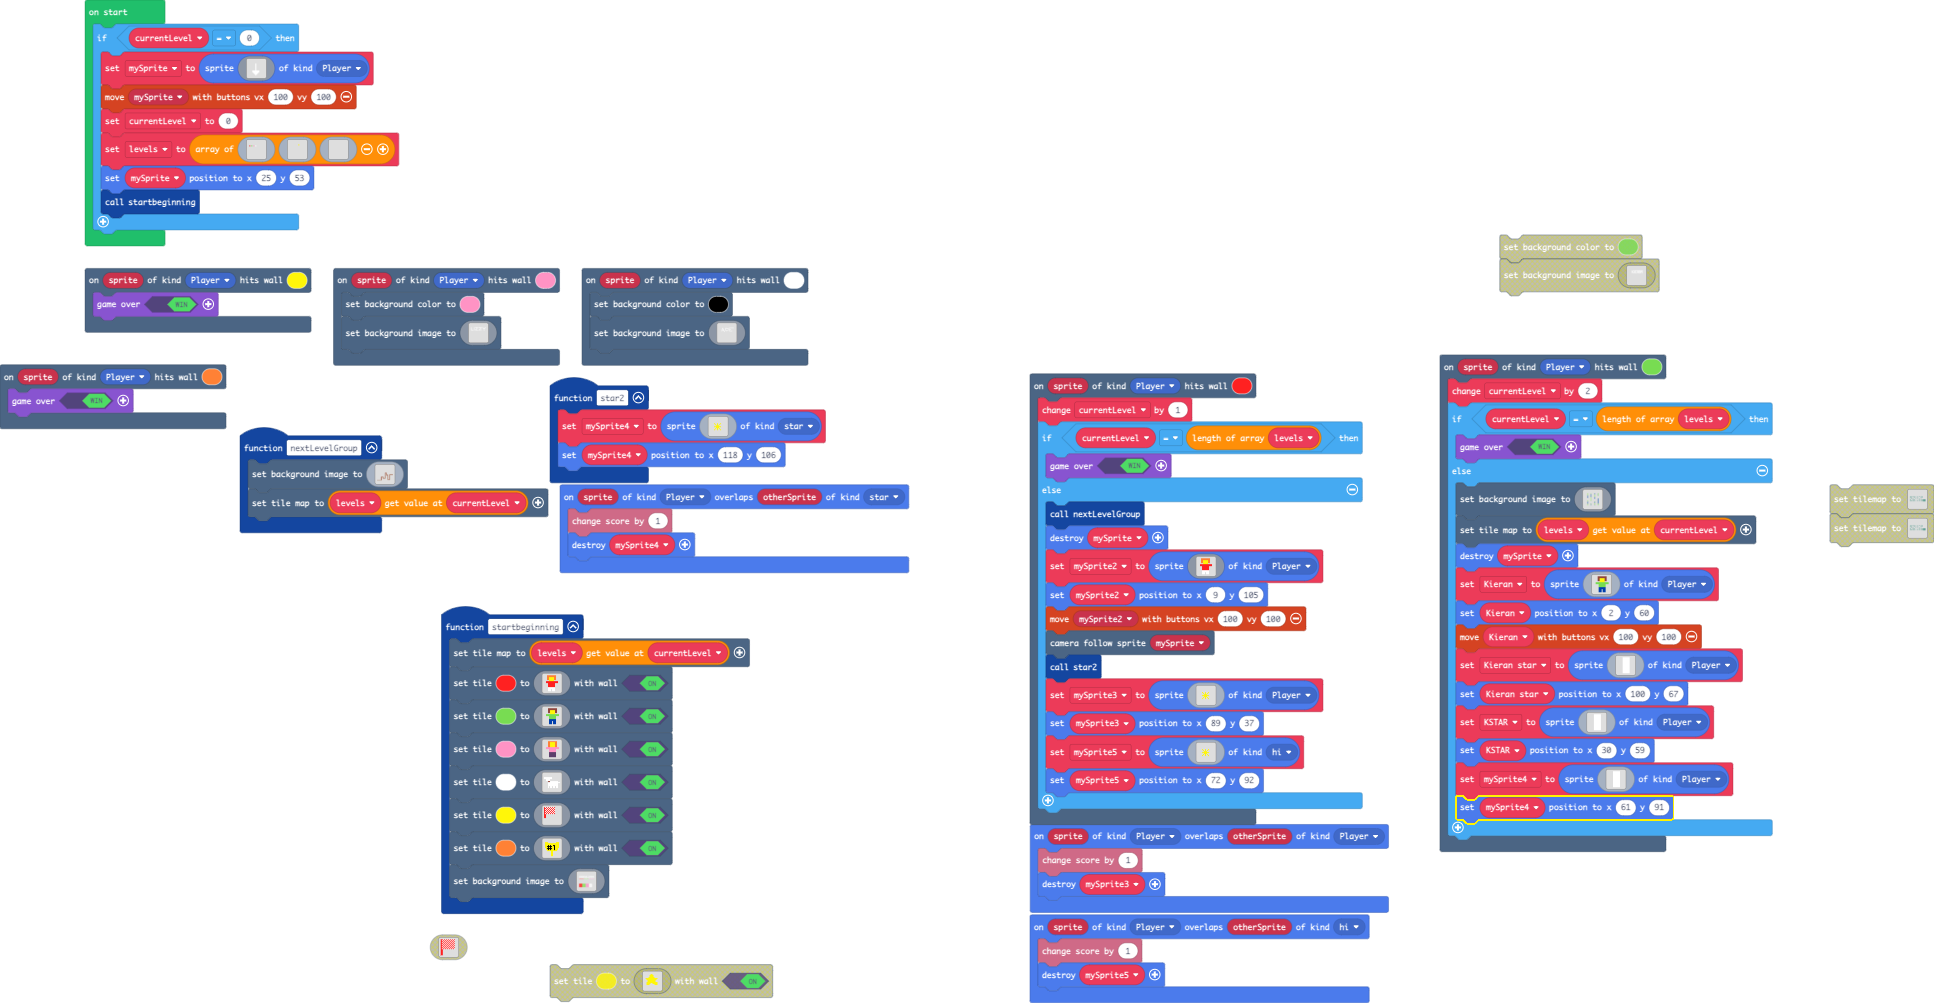
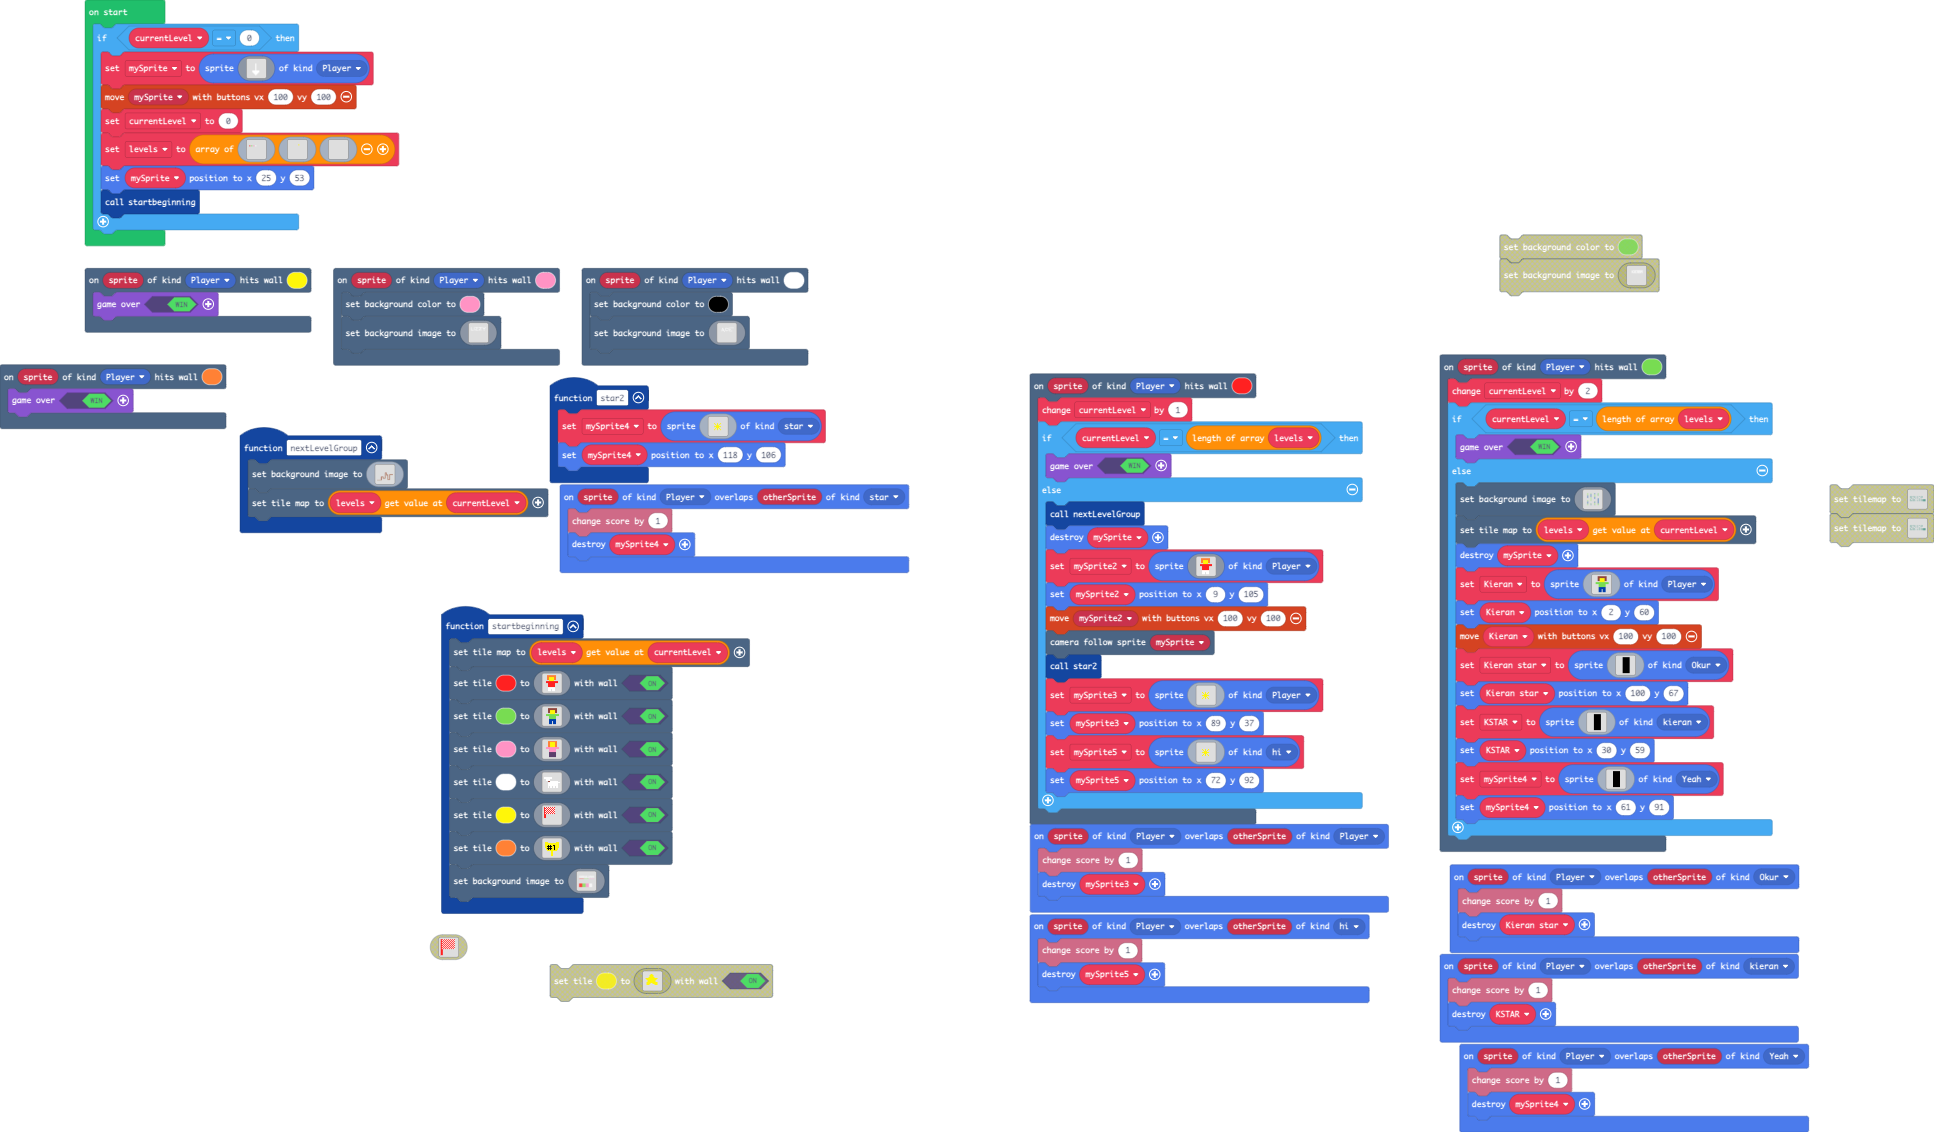
Update main.blocks, main.ts

diff --git a/main.ts b/main.ts
@@ -2,6 +2,8 @@ namespace SpriteKind {
     export const star = SpriteKind.create()
     export const hi = SpriteKind.create()
     export const Okur = SpriteKind.create()
+    export const kieran = SpriteKind.create()
+    export const Yeah = SpriteKind.create()
 }
 function nextLevelGroup () {
     scene.setBackgroundImage(img`
@@ -278,61 +280,61 @@ scene.onHitTile(SpriteKind.Player, 7, function (sprite) {
         Kieran.setPosition(2, 60)
         controller.moveSprite(Kieran, 100, 100)
         Kieran_star = sprites.create(img`
-            . . . . . 1 1 1 1 1 1 1 . . . . 
-            . . . . . 1 1 1 1 1 1 1 . . . . 
-            . . . . . 1 1 1 1 1 1 1 . . . . 
-            . . . . . 1 1 1 1 1 1 1 . . . . 
-            . . . . . 1 1 1 1 1 1 1 . . . . 
-            . . . . . 1 1 1 1 1 1 1 . . . . 
-            . . . . . 1 1 1 1 1 1 1 . . . . 
-            . . . . . 1 1 1 1 1 1 1 . . . . 
-            . . . . . 1 1 1 1 1 1 1 . . . . 
-            . . . . . 1 1 1 1 1 1 1 . . . . 
-            . . . . . 1 1 1 1 1 1 1 . . . . 
-            . . . . . 1 1 1 1 1 1 1 . . . . 
-            . . . . . 1 1 1 1 1 1 1 . . . . 
-            . . . . . 1 1 1 1 1 1 1 . . . . 
-            . . . . . 1 1 1 1 1 1 1 . . . . 
-            . . . . . 1 1 1 1 1 1 1 . . . . 
-            `, SpriteKind.Player)
+            . . . . . f f f f f f f . . . . 
+            . . . . . f f f f f f f . . . . 
+            . . . . . f f f f f f f . . . . 
+            . . . . . f f f f f f f . . . . 
+            . . . . . f f f f f f f . . . . 
+            . . . . . f f f f f f f . . . . 
+            . . . . . f f f f f f f . . . . 
+            . . . . . f f f f f f f . . . . 
+            . . . . . f f f f f f f . . . . 
+            . . . . . f f f f f f f . . . . 
+            . . . . . f f f f f f f . . . . 
+            . . . . . f f f f f f f . . . . 
+            . . . . . f f f f f f f . . . . 
+            . . . . . f f f f f f f . . . . 
+            . . . . . f f f f f f f . . . . 
+            . . . . . f f f f f f f . . . . 
+            `, SpriteKind.Okur)
         Kieran_star.setPosition(100, 67)
         KSTAR = sprites.create(img`
-            . . . . . 1 1 1 1 1 1 1 . . . . 
-            . . . . . 1 1 1 1 1 1 1 . . . . 
-            . . . . . 1 1 1 1 1 1 1 . . . . 
-            . . . . . 1 1 1 1 1 1 1 . . . . 
-            . . . . . 1 1 1 1 1 1 1 . . . . 
-            . . . . . 1 1 1 1 1 1 1 . . . . 
-            . . . . . 1 1 1 1 1 1 1 . . . . 
-            . . . . . 1 1 1 1 1 1 1 . . . . 
-            . . . . . 1 1 1 1 1 1 1 . . . . 
-            . . . . . 1 1 1 1 1 1 1 . . . . 
-            . . . . . 1 1 1 1 1 1 1 . . . . 
-            . . . . . 1 1 1 1 1 1 1 . . . . 
-            . . . . . 1 1 1 1 1 1 1 . . . . 
-            . . . . . 1 1 1 1 1 1 1 . . . . 
-            . . . . . 1 1 1 1 1 1 1 . . . . 
-            . . . . . 1 1 1 1 1 1 1 . . . . 
-            `, SpriteKind.Player)
+            . . . . . f f f f f f f . . . . 
+            . . . . . f f f f f f f . . . . 
+            . . . . . f f f f f f f . . . . 
+            . . . . . f f f f f f f . . . . 
+            . . . . . f f f f f f f . . . . 
+            . . . . . f f f f f f f . . . . 
+            . . . . . f f f f f f f . . . . 
+            . . . . . f f f f f f f . . . . 
+            . . . . . f f f f f f f . . . . 
+            . . . . . f f f f f f f . . . . 
+            . . . . . f f f f f f f . . . . 
+            . . . . . f f f f f f f . . . . 
+            . . . . . f f f f f f f . . . . 
+            . . . . . f f f f f f f . . . . 
+            . . . . . f f f f f f f . . . . 
+            . . . . . f f f f f f f . . . . 
+            `, SpriteKind.kieran)
         KSTAR.setPosition(30, 59)
         mySprite4 = sprites.create(img`
-            . . . . . 1 1 1 1 1 1 1 . . . . 
-            . . . . . 1 1 1 1 1 1 1 . . . . 
-            . . . . . 1 1 1 1 1 1 1 . . . . 
-            . . . . . 1 1 1 1 1 1 1 . . . . 
-            . . . . . 1 1 1 1 1 1 1 . . . . 
-            . . . . . 1 1 1 1 1 1 1 . . . . 
-            . . . . . 1 1 1 1 1 1 1 . . . . 
-            . . . . . 1 1 1 1 1 1 1 . . . . 
-            . . . . . 1 1 1 1 1 1 1 . . . . 
-            . . . . . 1 1 1 1 1 1 1 . . . . 
-            . . . . . 1 1 1 1 1 1 1 . . . . 
-            . . . . . 1 1 1 1 1 1 1 . . . . 
-            . . . . . 1 1 1 1 1 1 1 . . . . 
-            . . . . . 1 1 1 1 1 1 1 . . . . 
-            . . . . . 1 1 1 1 1 1 1 . . . . 
-            . . . . . 1 1 1 1 1 1 1 . . . . 
-            `, SpriteKind.Player)
+            . . . . . f f f f f f f . . . . 
+            . . . . . f f f f f f f . . . . 
+            . . . . . f f f f f f f . . . . 
+            . . . . . f f f f f f f . . . . 
+            . . . . . f f f f f f f . . . . 
+            . . . . . f f f f f f f . . . . 
+            . . . . . f f f f f f f . . . . 
+            . . . . . f f f f f f f . . . . 
+            . . . . . f f f f f f f . . . . 
+            . . . . . f f f f f f f . . . . 
+            . . . . . f f f f f f f . . . . 
+            . . . . . f f f f f f f . . . . 
+            . . . . . f f f f f f f . . . . 
+            . . . . . f f f f f f f . . . . 
+            . . . . . f f f f f f f . . . . 
+            . . . . . f f f f f f f . . . . 
+            `, SpriteKind.Yeah)
         mySprite4.setPosition(61, 91)
     }
 })
@@ -357,6 +359,10 @@ function star2 () {
         `, SpriteKind.star)
     mySprite4.setPosition(118, 106)
 }
+sprites.onOverlap(SpriteKind.Player, SpriteKind.Yeah, function (sprite, otherSprite) {
+    info.changeScoreBy(1)
+    mySprite4.destroy()
+})
 function startbeginning () {
     scene.setTileMap(levels[currentLevel])
     scene.setTile(2, img`
@@ -733,6 +739,10 @@ sprites.onOverlap(SpriteKind.Player, SpriteKind.star, function (sprite, otherSpr
     info.changeScoreBy(1)
     mySprite4.destroy()
 })
+sprites.onOverlap(SpriteKind.Player, SpriteKind.Okur, function (sprite, otherSprite) {
+    info.changeScoreBy(1)
+    Kieran_star.destroy()
+})
 scene.onHitTile(SpriteKind.Player, 1, function (sprite) {
     scene.setBackgroundColor(15)
     scene.setBackgroundImage(img`
@@ -857,6 +867,10 @@ scene.onHitTile(SpriteKind.Player, 1, function (sprite) {
         ................................................................................................................................................................
         ................................................................................................................................................................
         `)
+})
+sprites.onOverlap(SpriteKind.Player, SpriteKind.kieran, function (sprite, otherSprite) {
+    info.changeScoreBy(1)
+    KSTAR.destroy()
 })
 scene.onHitTile(SpriteKind.Player, 2, function (sprite) {
     currentLevel += 1
